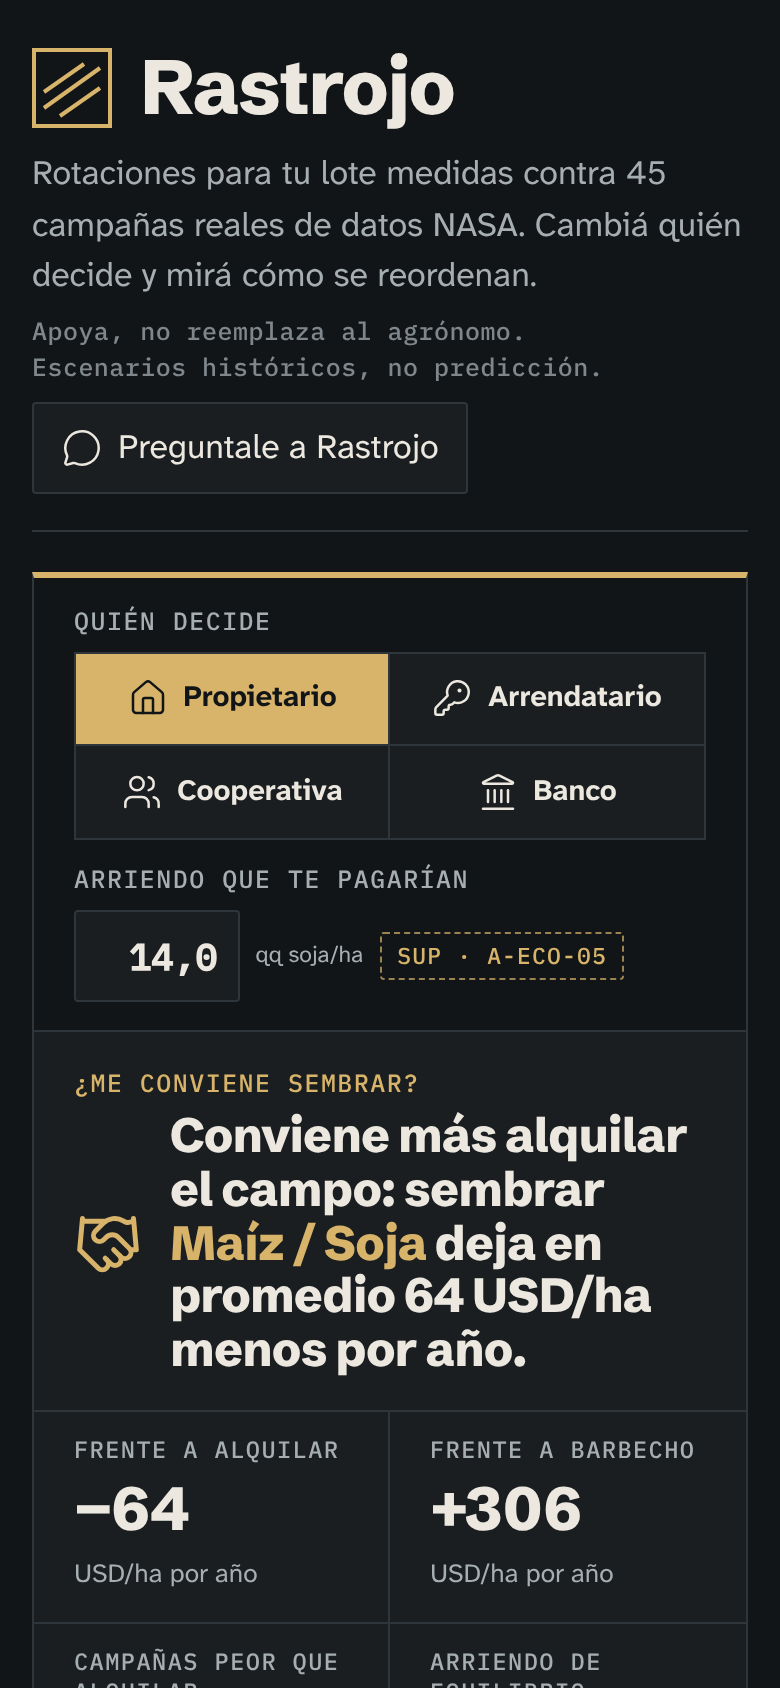
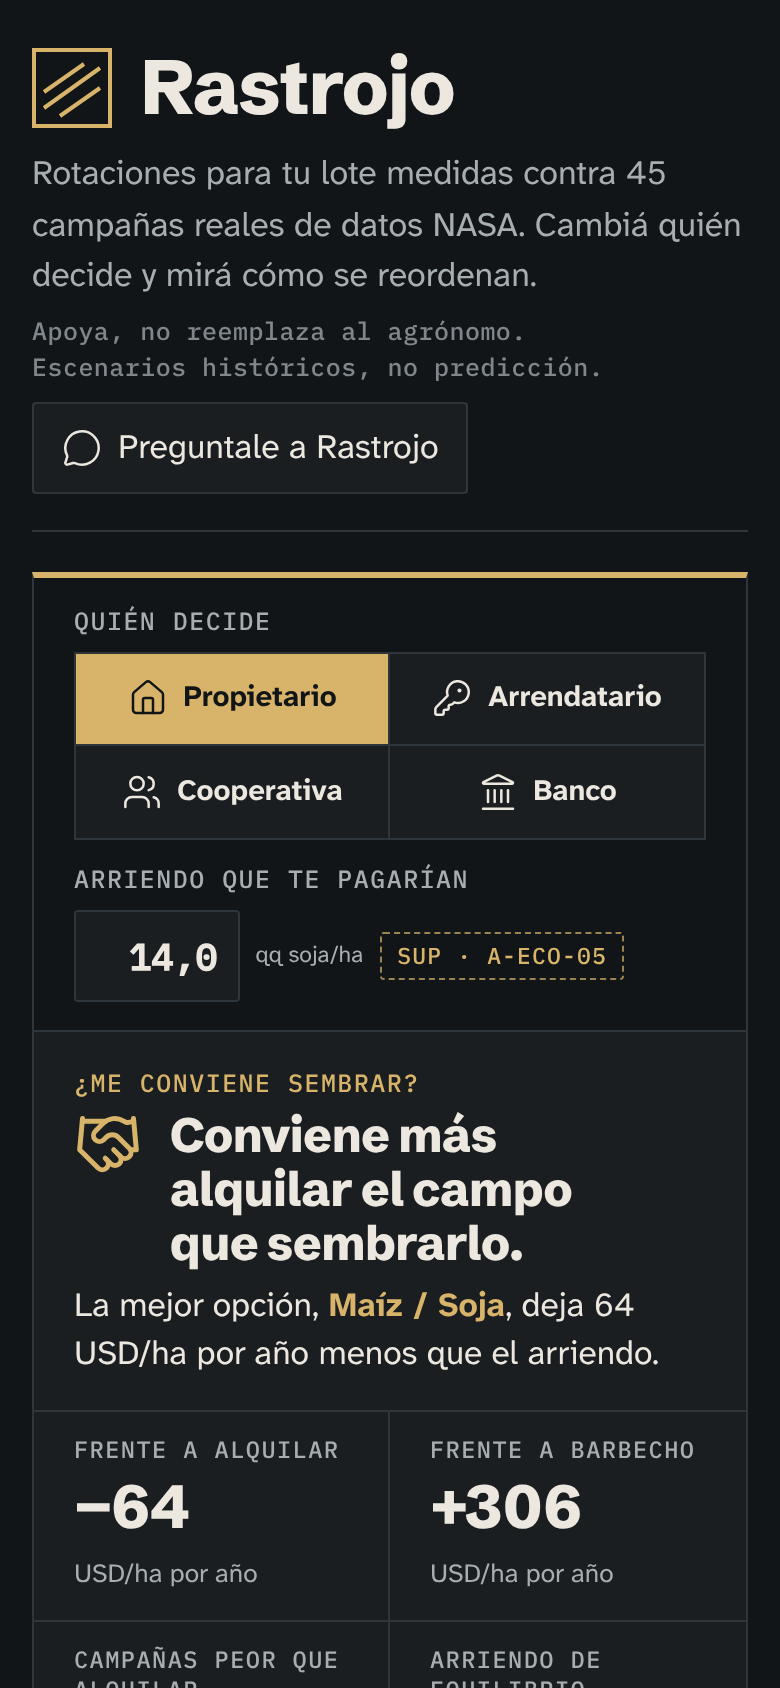
wip: short sowing headline plus detail line; one-line condensed ranking rows on wide screens
Local only: pending the user's review before pushing.

Claude-Session: https://claude.ai/code/session_01JTGC2xwYJ8ZqjVg3XMmALB

diff --git a/web/src/styles/app.css b/web/src/styles/app.css
@@ -99,7 +99,9 @@ header.top {
 .verdict-q { color: var(--v); }
 .verdict-line { display: flex; gap: 14px; align-items: center; font: 800 clamp(1.5rem, 2.3vw, 2.25rem)/1.12 var(--font-display); letter-spacing: -0.015em; color: var(--color-text); }
 .verdict-icon { flex: none; color: var(--v); }
-.verdict-line em { font-style: normal; color: var(--color-straw); }
+.verdict-line em, .verdict-detail em { font-style: normal; color: var(--color-straw); font-weight: 700; }
+.verdict-detail { font-size: clamp(1.05rem, 1.25vw, 1.25rem); line-height: 1.4; color: var(--color-text); max-width: 80ch; padding-left: 48px; }
+@media (max-width: 640px) { .verdict-detail { padding-left: 0; } }
 .stats { display: grid; grid-template-columns: repeat(auto-fit, minmax(170px, 1fr)); border-top: 1px solid var(--color-rule); }
 .stat { padding: 12px 20px 14px; border-right: 1px solid var(--color-rule); display: grid; gap: 6px; align-content: start; min-width: 0; }
 .stat:last-child { border-right: 0; }
@@ -310,11 +312,11 @@ header.top {
 .st-unknown svg { color: var(--color-state-unknown); }
 
 /* Campaign strip */
-.strip-wrap { grid-column: 2 / 4; min-width: 0; margin-top: 4px; }
-.strip, .months, .campaigns { display: grid; grid-template-columns: repeat(var(--cells), minmax(0, 1fr)); gap: 2px; }
+.strip-wrap { grid-column: 2 / 4; min-width: 0; margin-top: 6px; max-width: 620px; }
+.strip, .months, .campaigns { display: grid; grid-template-columns: repeat(var(--cells), minmax(0, 1fr)); gap: 3px; }
 .campaigns { grid-template-columns: repeat(2, minmax(0, 1fr)); margin-top: 2px; font: 400 0.7rem/1.1 var(--font-mono); color: var(--color-text-faint); }
 .campaigns span:last-child { border-left: 1px solid var(--color-rule); padding-left: 6px; }
-.strip i { height: 16px; display: block; position: relative; }
+.strip i { height: 18px; display: block; position: relative; }
 .strip i.camp-start, .months span.camp-start { margin-left: 3px; }
 .crop-soy { background: var(--color-crop-soy); }
 .crop-maize { background: var(--color-crop-maize); }
@@ -475,4 +477,20 @@ header.top {
 @media (prefers-reduced-motion: reduce) {
   *, *::before, *::after { animation: none !important; transition: none !important; }
   .lot-outline.draw { stroke-dasharray: none; stroke-dashoffset: 0; }
+}
+
+/* Wide screens: one condensed line per rotation (name and facts | strip | score). */
+@media (min-width: 1500px) {
+  .row {
+    grid-template-columns: 28px minmax(0, 1fr) minmax(0, 470px) 118px;
+    grid-template-areas: "pos name strip score" "pos facts strip score";
+    gap: 2px 20px; align-items: center; padding: 10px 16px;
+  }
+  .row > .pos { grid-area: pos; align-self: start; }
+  .row > .name { grid-area: name; align-self: end; }
+  .row > .facts { grid-area: facts; grid-column: auto; align-self: start; gap: 2px 12px; font-size: 0.82rem; }
+  .row > .facts > span { white-space: nowrap; }
+  .row > .strip-wrap { grid-area: strip; grid-column: auto; margin-top: 0; max-width: none; }
+  .row > .score { grid-area: score; align-self: center; }
+  .row .why { flex-basis: 100%; }
 }

diff --git a/web/src/components/Verdict.tsx b/web/src/components/Verdict.tsx
@@ -114,10 +114,15 @@ export function Verdict({ results, order, names, actorLabel, isTenant, sowing, r
       <div className="verdict-body" aria-live="polite">
         <p className="label verdict-q">{isTenant ? "¿Me conviene seguir arrendando?" : "¿Me conviene sembrar?"}</p>
         {sowing && v ? (
+          <>
           <h2 id="h-verdict" className="verdict-line" data-verdict={sowing.verdict}>
             <v.Icon className="verdict-icon" size={34} strokeWidth={1.75} aria-hidden="true" />
-            <span>{emphasize(sowing.headline, sowing.rotation_id ? names[sowing.rotation_id] : undefined)}</span>
+            <span>{sowing.headline}</span>
           </h2>
+          {sowing.detail && (
+            <p className="verdict-detail">{emphasize(sowing.detail, sowing.rotation_id ? names[sowing.rotation_id] : undefined)}</p>
+          )}
+          </>
         ) : (
           <h2 id="h-verdict" className="verdict-line">
             {top ? (

diff --git a/web/src/data/types.ts b/web/src/data/types.ts
@@ -88,6 +88,7 @@ export interface SowingDecision {
   campaigns_total: number;
   water: WaterFeasibility | null;
   headline: string;
+  detail: string;
   reasons: string[];
   assumptions: string[];
 }

diff --git a/src/rastrojo/application/sowing.py b/src/rastrojo/application/sowing.py
@@ -63,6 +63,7 @@ class SowingDecision(DomainModel):
     campaigns_total: int = 0
     water: WaterFeasibility | None = None
     headline: str
+    detail: str = ""
     reasons: tuple[str, ...] = ()
     assumptions: tuple[str, ...] = ()
 
@@ -138,11 +139,8 @@ def decide(
             rent=rent,
             rent_qq=round(rent_qq, 6),
             fallow_cost=fallow_cost,
-            headline=(
-                "Con estas condiciones no conviene seguir arrendando: ninguna rotación es elegible."
-                if tenant
-                else "Con estas condiciones no conviene sembrar: ninguna rotación es elegible."
-            ),
+            headline="No conviene seguir arrendando." if tenant else "No conviene sembrar.",
+            detail="Con estas condiciones ninguna rotación es elegible.",
             reasons=(f"Mejor alternativa: {alt}.",),
             assumptions=used,
         )
@@ -164,36 +162,38 @@ def decide(
     share = below_rent / n if n else 0.0
 
     reasons: list[str] = []
+    # Titular corto (el sí o el no) y una línea de detalle con el número que lo explica.
     if d_fallow <= 0:
         verdict: Verdict = "DONT_SOW"
-        headline = (
-            f"No conviene seguir arrendando: {name}, la mejor opción, deja menos que el barbecho."
-            if tenant
-            else f"No conviene sembrar: {name}, la mejor opción, deja menos que el barbecho."
-        )
+        headline = "No conviene seguir arrendando." if tenant else "No conviene sembrar."
+        detail = f"Ni la mejor opción, {name}, cubre lo que cuesta dejar el lote en barbecho."
     elif d_rent <= 0:
         verdict = "RENT_BETTER"
         headline = (
-            f"Conviene más devolver el campo: {name} deja en promedio "
-            f"{_fmt(-d_rent)} USD/ha menos que lo que cuesta el arriendo."
+            "Conviene más devolver el campo que seguir arrendando."
             if tenant
-            else f"Conviene más alquilar el campo: sembrar {name} deja en promedio "
-            f"{_fmt(-d_rent)} USD/ha menos por año."
+            else "Conviene más alquilar el campo que sembrarlo."
+        )
+        detail = (
+            f"La mejor opción, {name}, deja {_fmt(-d_rent)} USD/ha por año menos que el arriendo."
         )
     elif share > max_share_below_rent or risky_water:
         verdict = "SOW_WITH_RISK"
         headline = (
-            f"Sí, conviene seguir arrendando con {name}, pero con riesgo."
+            "Sí, conviene seguir arrendando, pero con riesgo."
             if tenant
-            else f"Sí, conviene sembrar {name}, pero con riesgo."
+            else "Sí, conviene sembrar, pero con riesgo."
         )
+        caveat = (
+            f"pero en {below_rent} de {n} campañas habría dejado menos."
+            if share > max_share_below_rent
+            else "pero en años secos el agua es riesgosa."
+        )
+        detail = f"Con {name} deja {_fmt(d_rent)} USD/ha por año más que {short}, {caveat}"
     else:
         verdict = "SOW"
-        headline = (
-            f"Sí, conviene seguir arrendando y sembrar {name}."
-            if tenant
-            else f"Sí, conviene sembrar {name}."
-        )
+        headline = "Sí, conviene seguir arrendando." if tenant else "Sí, conviene sembrar."
+        detail = f"Con {name} deja {_fmt(d_rent)} USD/ha por año más que {short}."
 
     if d_rent > 0:
         reasons.append(
@@ -239,6 +239,7 @@ def decide(
         campaigns_total=n,
         water=top.water_feasibility,
         headline=headline,
+        detail=detail,
         reasons=tuple(reasons),
         assumptions=used,
     )

diff --git a/src/rastrojo/application/agent.py b/src/rastrojo/application/agent.py
@@ -227,7 +227,7 @@ def _sowing(out: EngineOutput, trace: list[ToolTrace]) -> SowingDecision:
 
 
 def _sowing_text(d: SowingDecision, asks_future: bool) -> str:
-    lines = [d.headline, *d.reasons]
+    lines = [d.headline, d.detail, *d.reasons]
     lines.append(
         "El arriendo de referencia (A-ECO-05) y el costo de barbecho (A-ECO-06) son supuestos de ejemplo:"
         " cambialos por los de tu contrato en la web."
@@ -385,7 +385,8 @@ def respond(req: AskRequest) -> AskResponse:
         out = _evaluate(state, trace, flt)
         if intent in ("ranking", "what_if_dry"):
             # "¿Me conviene?" a secas: primero el sí o no, después el orden.
-            head = _sowing(out, trace).headline + "\n\n" if intent == "ranking" else ""
+            d = _sowing(out, trace) if intent == "ranking" else None
+            head = f"{d.headline} {d.detail}\n\n" if d else ""
             text = (
                 head
                 + (

diff --git a/tests/application/test_sowing.py b/tests/application/test_sowing.py
@@ -36,6 +36,7 @@ def test_cheap_rent_says_sow_and_expensive_rent_says_rent() -> None:
     cheap = _decide(rent_qq_ha=0)
     assert cheap.verdict in ("SOW", "SOW_WITH_RISK")
     assert cheap.headline.startswith("Sí, conviene sembrar")
+    assert "deja" in cheap.detail
     dear = _decide(rent_qq_ha=40)
     assert dear.verdict == "RENT_BETTER"
     assert dear.vs_rent is not None and dear.vs_rent.value < 0
@@ -98,7 +99,7 @@ def test_numbers_in_text_come_from_the_decision() -> None:
         for v in (d.expected_margin.value, d.rent.value, d.vs_rent.value, d.vs_fallow.value)
     }
     allowed |= {d.campaigns_below_rent, d.campaigns_total}
-    for line in (d.headline, *d.reasons):
+    for line in (d.headline, d.detail, *d.reasons):
         for n in parse_ar_numbers(line):
             if n == round(d.breakeven_rent_qq.value, 1):
                 continue
